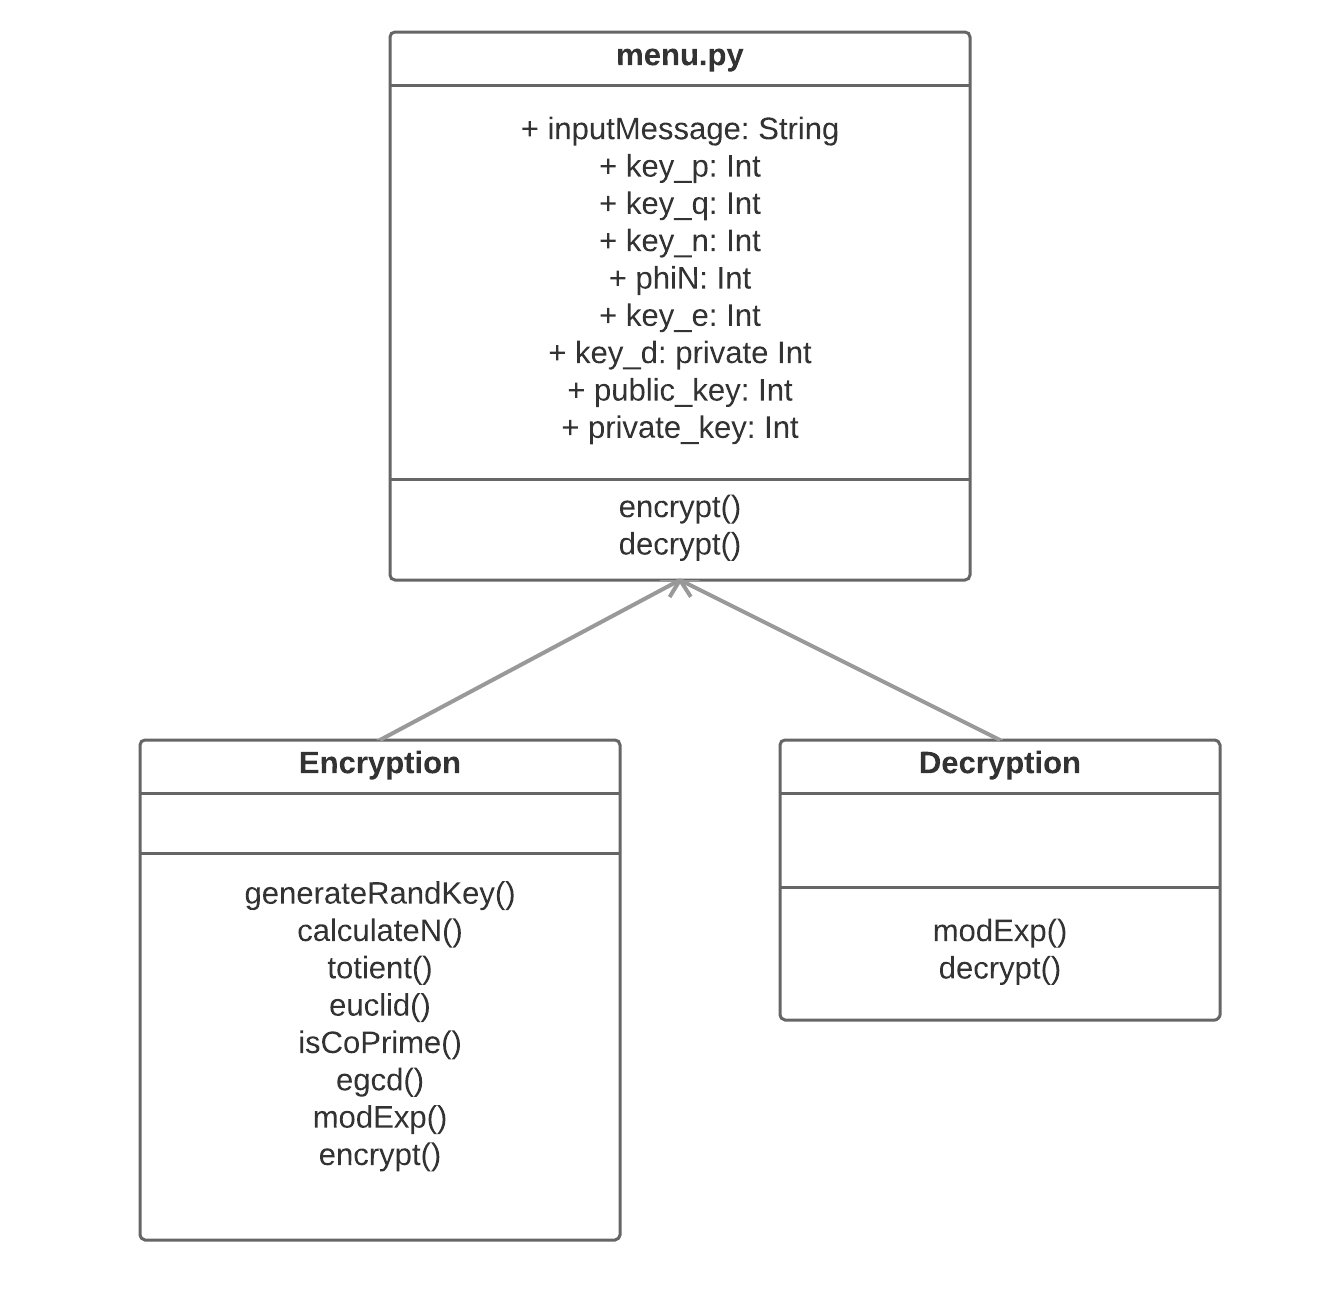
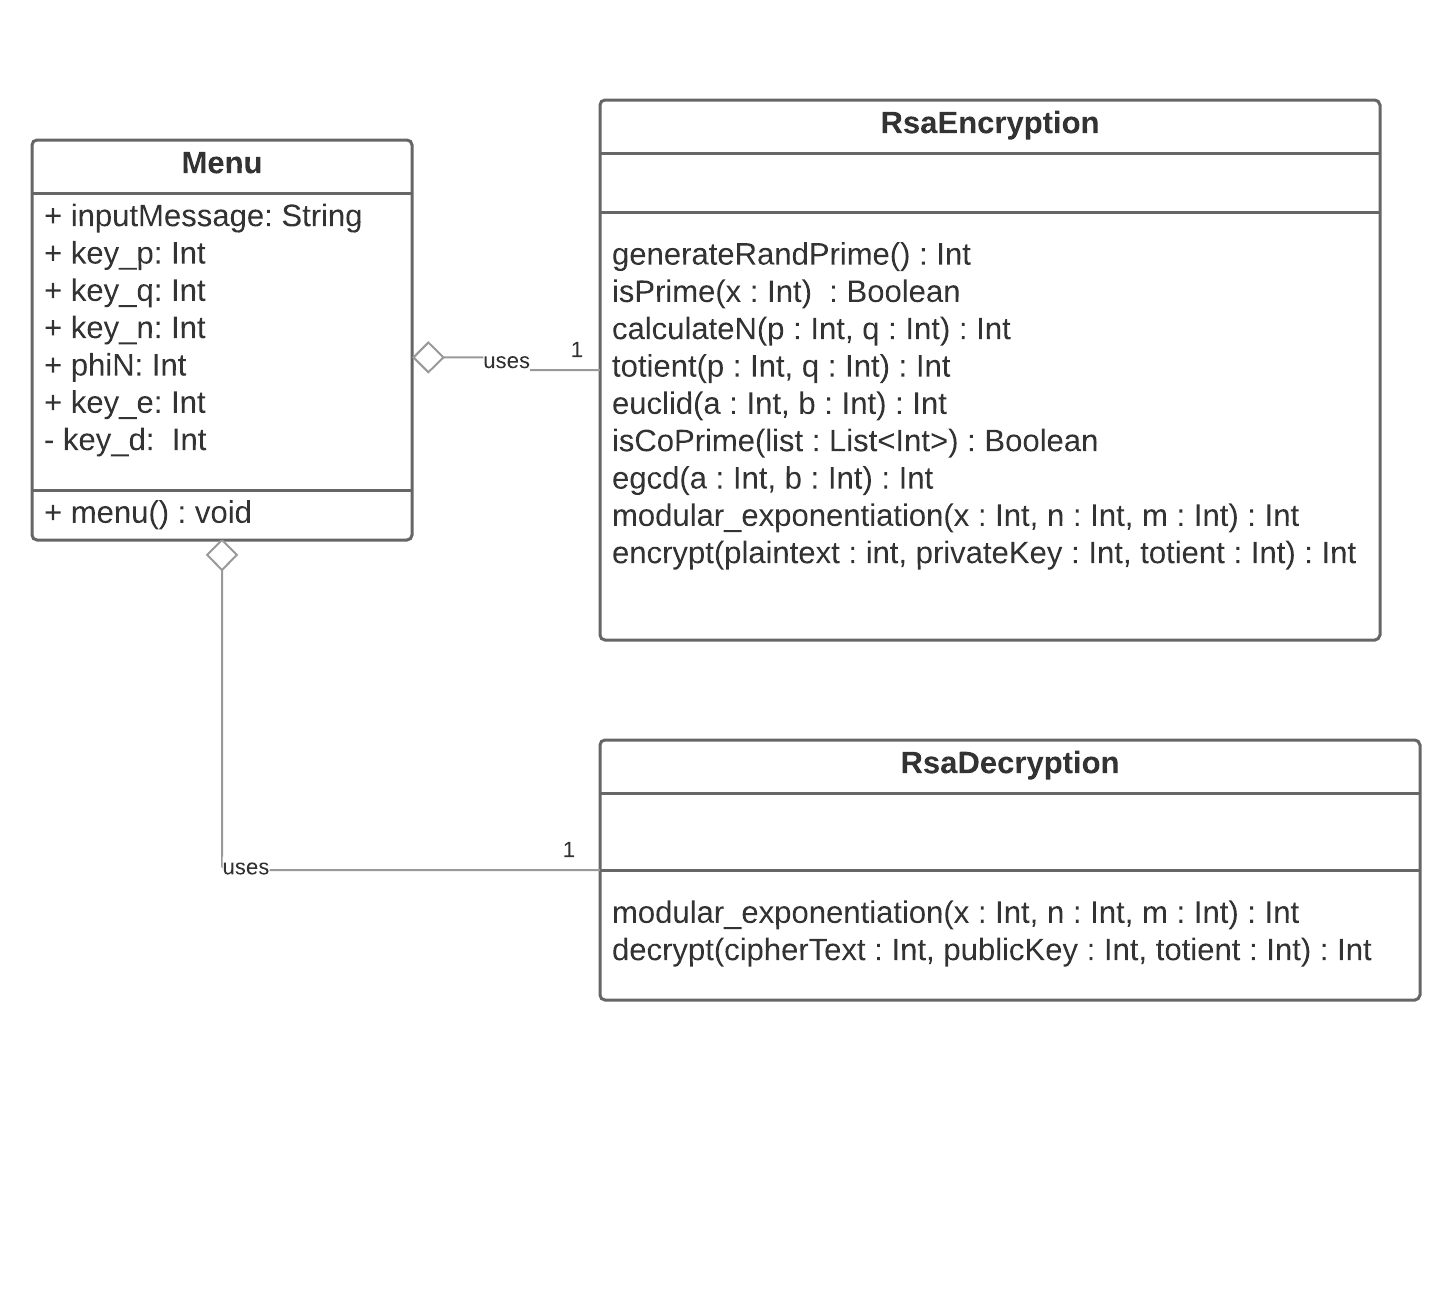
Corrected isPrime() and checked that p and q are unique

diff --git a/RsaEncryption.py b/RsaEncryption.py
@@ -15,12 +15,16 @@ class RsaEncryption():
     def isPrime(self, x):
         """ Returns True if x is a prime number, else False """
 
+        # 1 is not a prime number (requires two distinct natural numbers)
+        if x == 1:
+            return False
+
         for i in range(2, x-1):
             if x % i == 0: #even
                 return False
         return True
 
-    def generateRandKey(self):
+    def generateRandPrime(self):
         """ Returns a randomly generated number between 0 and 100 """
         while True:
             self.num = secrets.randbelow(100)
@@ -66,21 +70,9 @@ class RsaEncryption():
 
     def modular_exponentiation(self, x, n, m):
         """ Returns x to the power of n modular m """
-
-        # convert ints to floats to mitigate integer division problem (rounding errors)
-        y = 1.0
-        n = float(n)
-        m = float(m)
-
-        while (n > 0):
-            if (n % 2 == 1): #if odd
-                y = y * x % m
-            n = n/2
-            x = x * x % m
-        return int(y)
+        return pow(x,n,m)
 
     def encrypt(self, plaintext, privateKey, totient):
         """ Return ciphertext by computing plaintext to the power of privateKey modular totient """
-
         c = self.modular_exponentiation(plaintext, privateKey, totient)
         return c

diff --git a/menu.py b/menu.py
@@ -30,8 +30,13 @@ def menu():
         rsaEncryption = RsaEncryption()
 
         # Randomly generate keys p and q between 0 and 100
-        key_p = rsaEncryption.generateRandKey()
-        key_q = rsaEncryption.generateRandKey()
+        key_p = rsaEncryption.generateRandPrime()
+        key_q = rsaEncryption.generateRandPrime()
+
+        # ensure primes are distinct
+        while key_q == key_p:
+            key_q = rsaEncryption.generateRandPrime()
+
         print('p is:', key_p)
         print('q is:', key_q)
 
@@ -47,7 +52,7 @@ def menu():
             sys.exit(1)
 
 
-        # Caluculate key n
+        # Calculate key n
         key_n = rsaEncryption.calculateN(key_p, key_q)
         print("\nn is:", str(key_p), "*", str(key_q), "=", key_n)
 

diff --git a/RsaDecryption.py b/RsaDecryption.py
@@ -7,18 +7,7 @@ class RsaDecryption():
 
     def modular_exponentiation(self, x, n, m):
         """ Returns x to the power of n modular m """
-
-        # convert ints to floats to mitigate integer division problem (rounding errors)
-        y = 1.0
-        n = float(n)
-        m = float(m)
-
-        while (n > 0):
-            if (n % 2 == 1): #if odd
-                y = y * x % m
-            n = n/2
-            x = x * x % m
-        return int(y)
+        return pow(x,n,m)
 
     def decrypt(self, ciphertext, publicKey, totient):
         """ Return plaintext by computing ciphertext to the power of publicKey modular totient """
